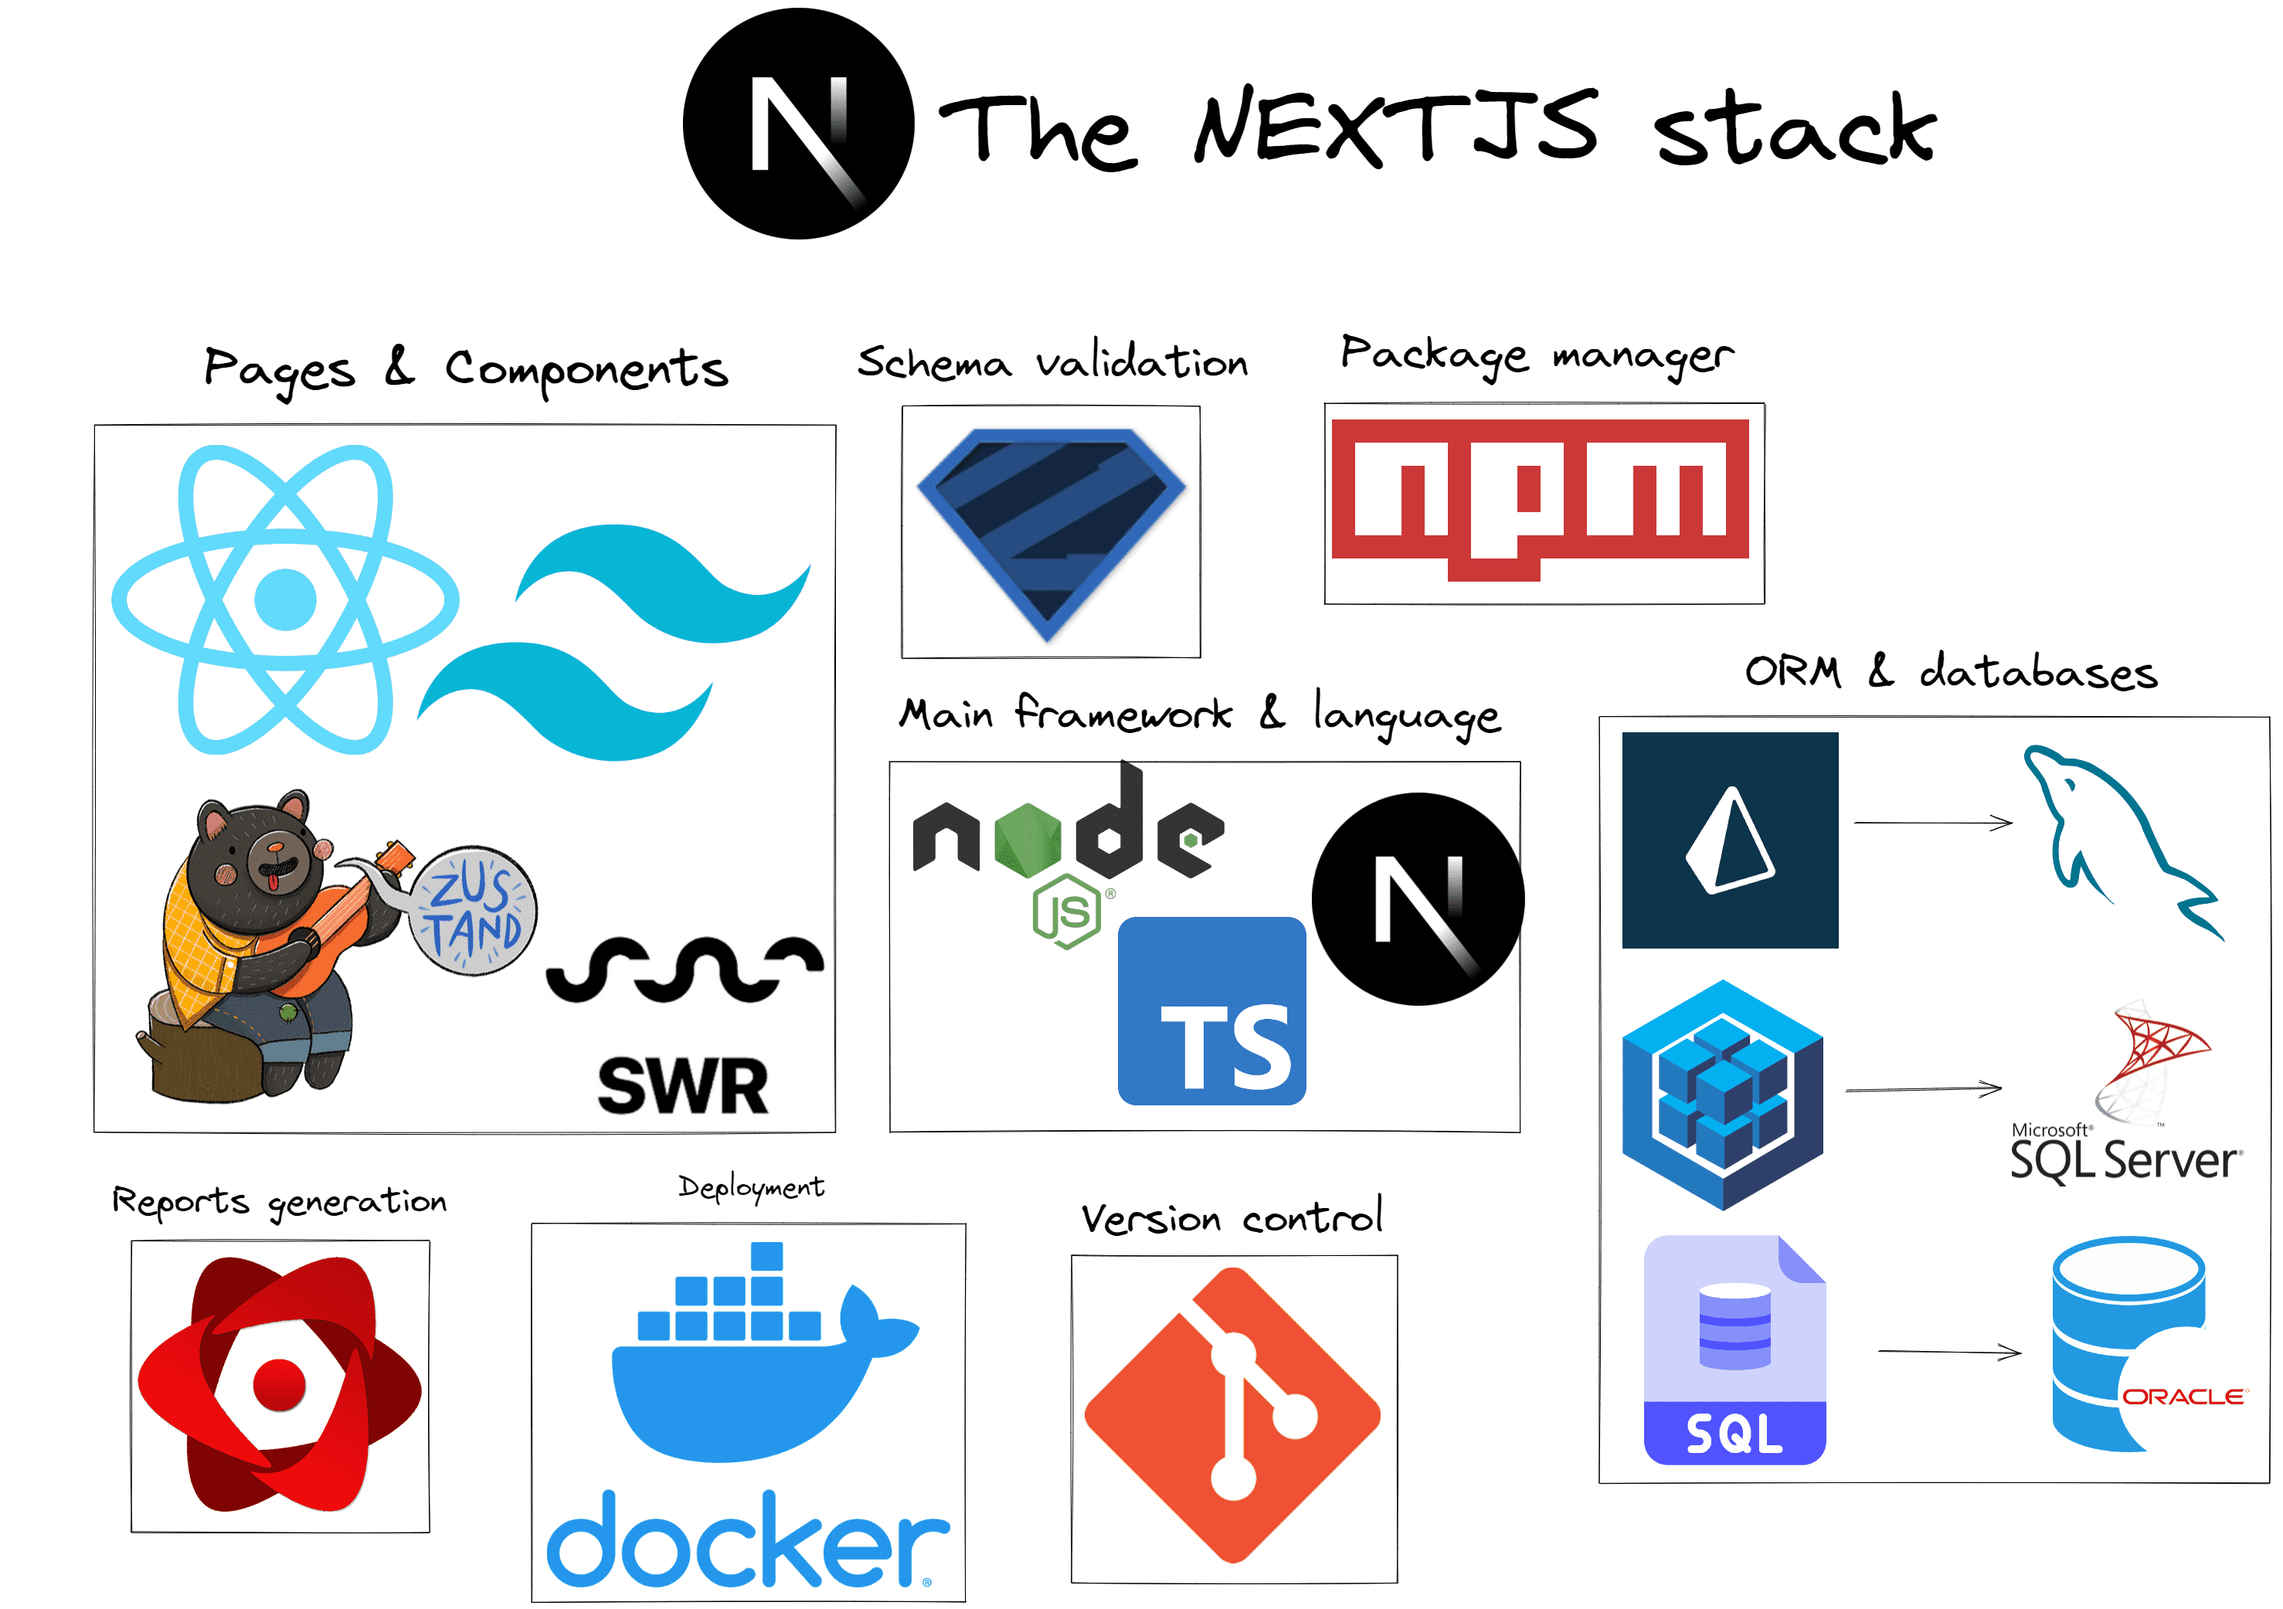
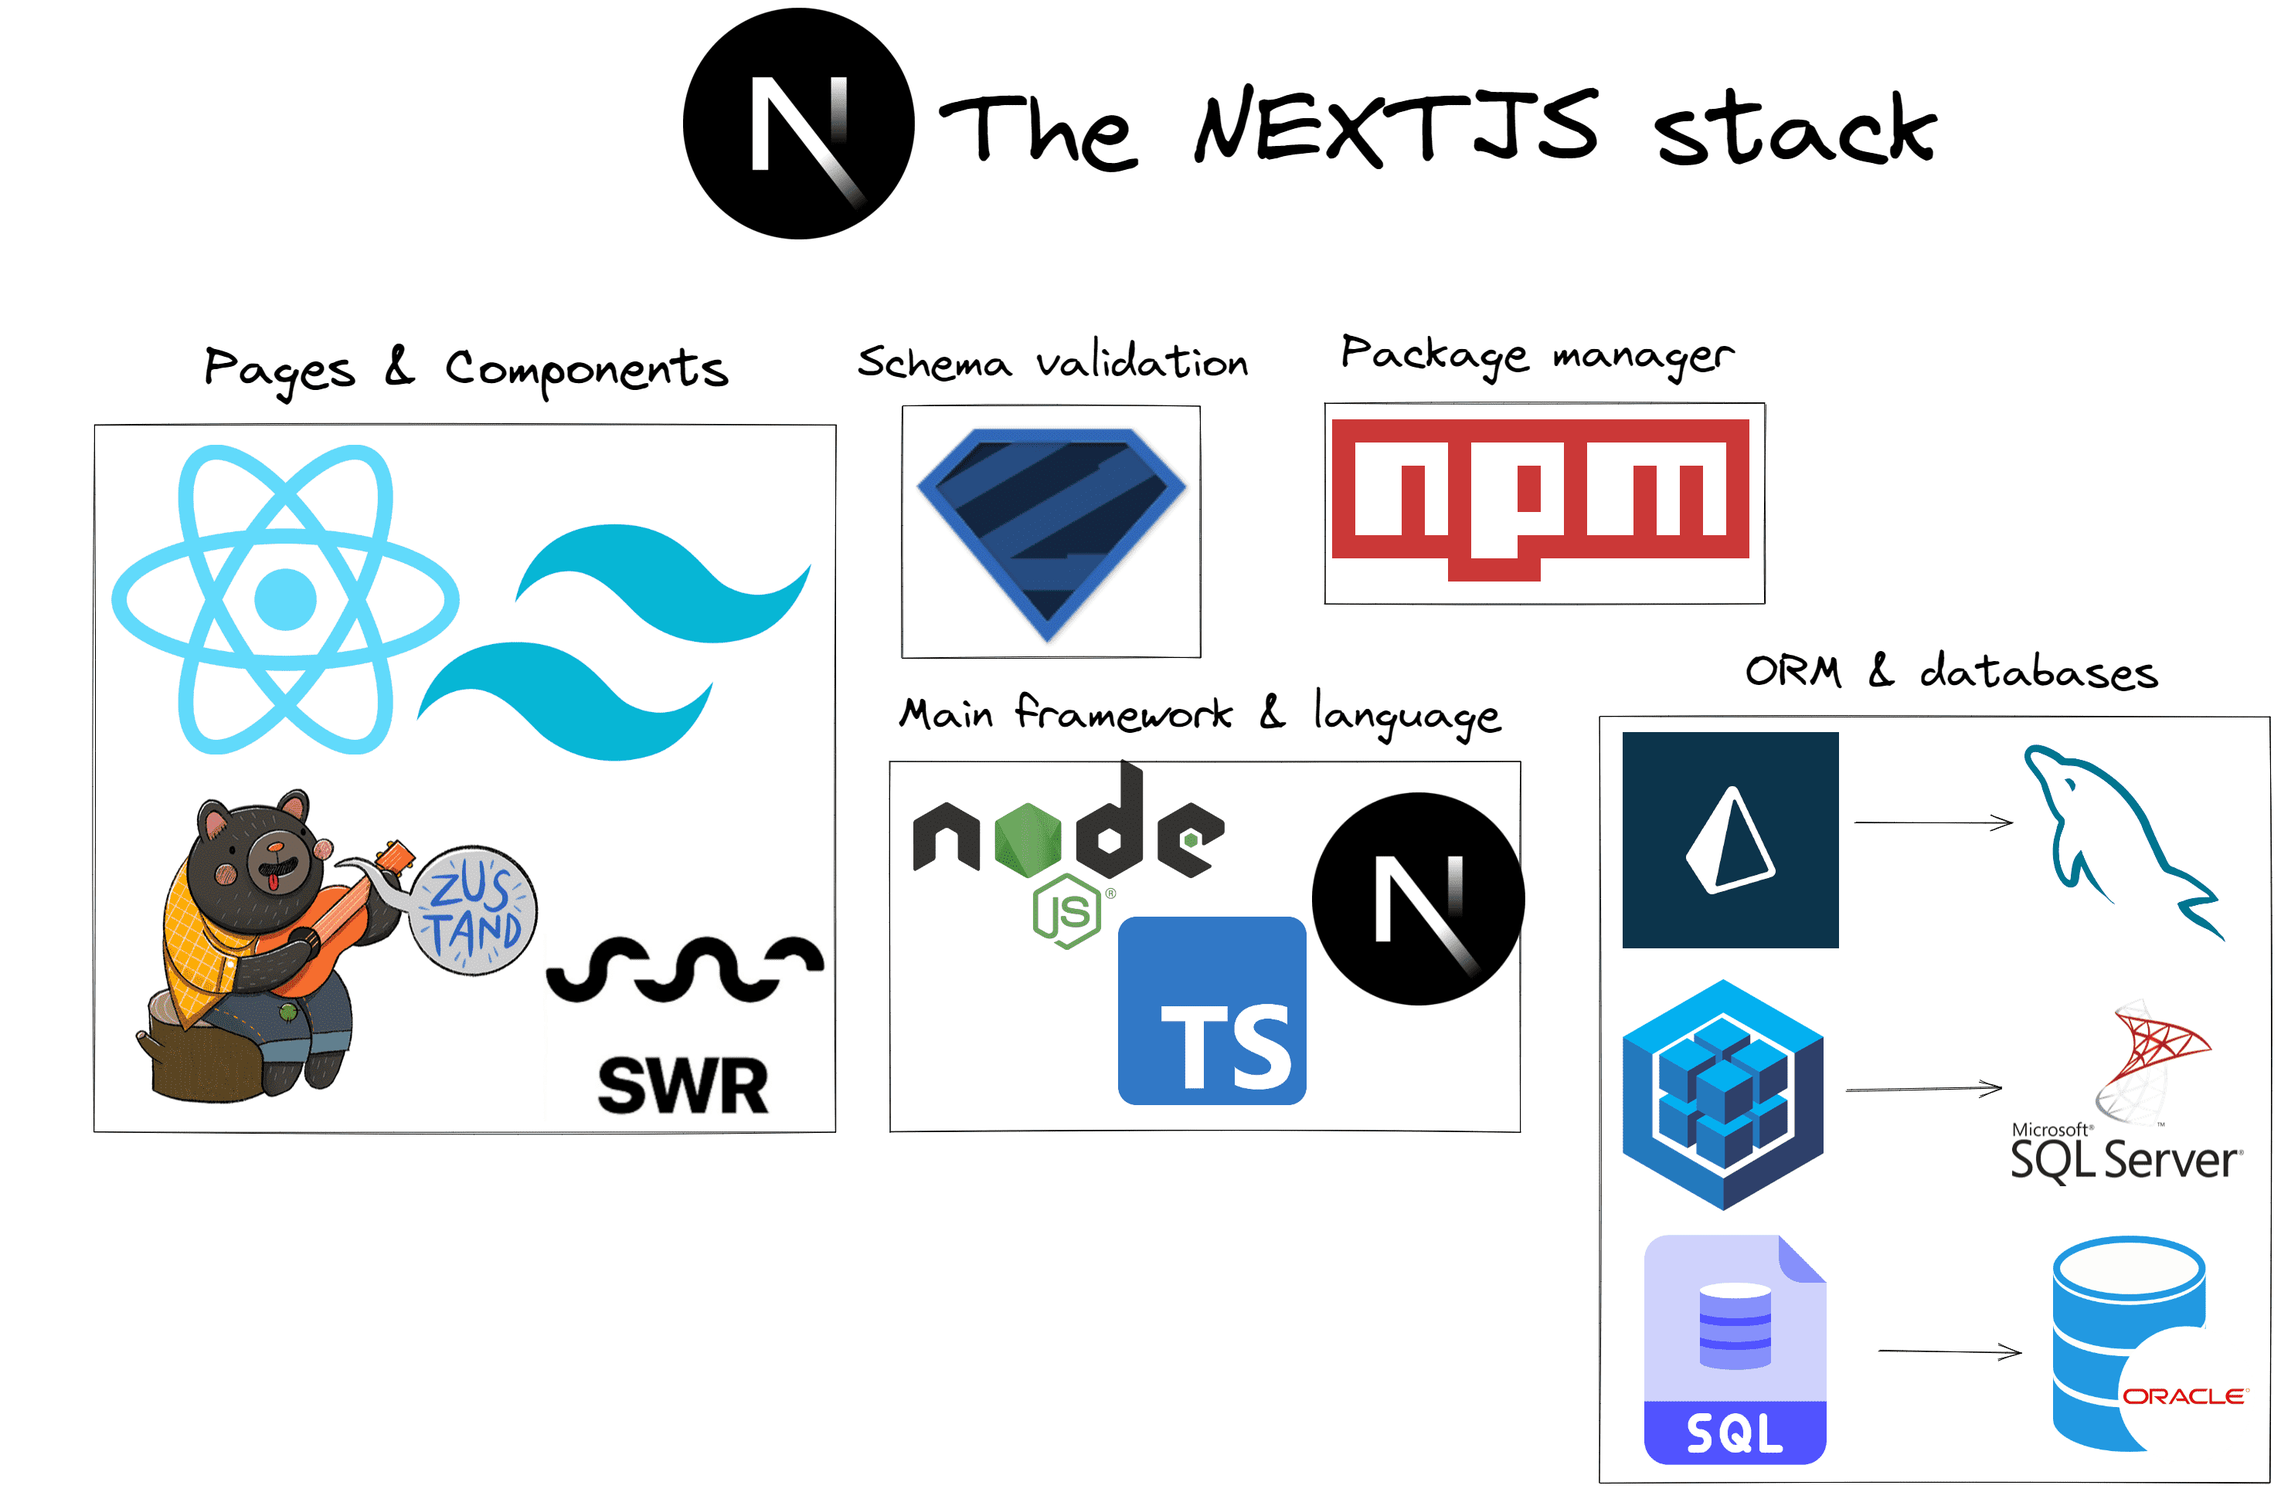
update 27 1 2023

diff --git a/content/es/blog/2022-10-30-first-blog.md b/content/es/blog/2022-10-30-first-blog.md
@@ -7,14 +7,10 @@ categories: ["Personal stuff"]
 thumbnail: /uploads/sunset.jpg
 ---
 
-Después de patearla por mucho tiempo, finalmente decidí empezar un blog. Mi objetivo prinicipal es **escribir contenido que pueda ayudar a otros desarrolladores web**
+_\(Potrero de los Funes, San Luis, Argentina\)_
 
-Para lograr este objetivo, tengo planeado las siguientes categorías \(cuyos nombres estarán en inglés porque así me es mas fácil administrar el tema de tener publicaciones en inglés y su traducción al español\)
+Después de patearla por mucho tiempo, finalmente decidí empezar un blog. Mi objetivo prinicipal es **documentar mi camino como desarrollador**. Para ello escribiré acerca de...
 
-- **&ldquo;The weekly update&ldquo;** \(La publicacion semanal\): Una vez por semana, probablemente los viernes por la noche, escribiré un nuevo post acerca de mi semana en el laburo. Inclusive en aquellas semanas donde no pasa mucho, seguramente puedo extraer algunos pensamientos acercas de tareas o charlas con mis compañeros de trabajo
+- **Cosas del laburo**: Inclusive si no pasa mucho, seguramente puedo extraer algunos pensamientos acercas de tareas o charlas con mis compañeros de trabajo
 
-- **&ldquo;I learned X, and here are my thoughts about it&ldquo;** \(Aprendí X, y estos son mis pensamientos al respecto\): Aquí documentaré mi proceso acerca de aprender una tecnología. Las cosas que me gustaron, las que no, si es complicado, y si le daré uso como desarrollador web, como hobby, o nunca. De paso, esto me motivará a aprender nuevas cosas para añadir contenido al blog
-
-- **&ldquo;Oddly specific tutorials&ldquo;** \(Tutoriales absurdamente específicos\): Creo que la mejor manera de explicarlo es con un ejemplo. Una vez se me asignó la tarea de hacer que una aplicacion Node realice consultas a una base de datos Oracle bastante vieja, y dockerizarlo. Junto con 3 compañeros, nos tomó un par de días debido a la rareza de la tarea, y fue un toque frustrante. Me hubiera gustado encontrar un tutorial al respecto, pero no había ninguno. Así que capaz sea el primero en hacer uno
-
-- **&ldquo;Personal stuff&ldquo;** \(Cosas personales\): Planeo que esto sea un blog de programación, pero capaz escriba de vez en cuando cosas personales. Tal como dice en la página principal, soy alguien a quien le gusta hacer otras cosas fuera de la programación
+- **Cosas personales**: Tal como dice en la página principal, soy alguien a quien le gusta hacer otras cosas fuera de la programación. Hay que aprovechar esta _esquina del internet_ para dejar una marca

diff --git a/content/en/blog/2022-10-30-first-blog.md b/content/en/blog/2022-10-30-first-blog.md
@@ -7,14 +7,10 @@ categories: ["Personal stuff"]
 thumbnail: /uploads/sunset.jpg
 ---
 
-After delaying for quite a time, finally decided to start a blog. My main objective is **writing stuff that may help fellow web developers**
+_\(Potrero de los Funes, San Luis, Argentina\)_
 
-To archieve that objective, I have the following blog categories in mind:
+After delaying for quite a time, finally decided to start a blog. My main objective is **to document my journey as a developer**. To archieve that objective, I'll write about....
 
-- **&ldquo;The weekly update&ldquo;**: Once a week, probably friday night, I'll write a new post about my week at work. Even on those weeks where not much is happenning, I'm sure I can extract some thoughts about tasks or chit-chat I had with my coworkers
+**Work stuff:** Even if not much happens, I can surely extract some thoughts about tasks or chats with my coworkers
 
-- **&ldquo;I learned X, and here are my thoughts about it&ldquo;**: Here I’ll document my process about learning a given technology. The things I liked, hated, and confused me about the technology in particular, and if I’ll use it as a web developer, as a hobby, or never. This will also motivate me to learn things so I can add content to the blog
-
-- **&ldquo;Oddly specific tutorials&ldquo;**: I think an example will explain it better. I was once assigned the task of making a Node application query a very old Oracle database, and dockerize it. Me along 3 coworkers spent a couple of days because of the rarity of the task, and was kinda frustrating. I would've loved to find a tutorial on the matter, but there was none. So, maybe I'll be the first to make one
-
-- **&ldquo;Personal stuff&ldquo;**: I plan this to be a developer blog, but maybe I'll write from time to time personal stuff. As stated in the main page, I'm someone who loves others things outside programming
+**Personal stuff:** Just like it says on the front page, I'm someone who likes to do other things outside of programming. You have to take advantage of this _corner of the internet_ to leave a mark

diff --git a/content/es/page/about.md b/content/es/page/about.md
@@ -40,9 +40,6 @@ Buenas, soy Franco Becvort \(Pollito\), un desarrollador web de San Luis, Argent
 - **Páginas y componentes:** React, Tailwind, Zustand, SWR
 - **Validación de esquemas:** Zod
 - **Administrador de paquetes:** NPM
-- **Deployment:** Docker
-- **Reportes:** React pdf v3
-- **Control de versión:** Git
 - **ORM & base de datos:**
   - Prisma con MySQL 8
   - Sequelize con Microsoft SQL Server 2016
@@ -58,7 +55,6 @@ Buenas, soy Franco Becvort \(Pollito\), un desarrollador web de San Luis, Argent
 - **Dominios, Controladores & Servicios:** Groovy
 - **Lenguaje de consulta & base de datos:** Hibernate, Microsoft SQL Server 2016
 - **Control de versión:** Subversion
-- **Deployment:** Gradle, Apache Tomcat 8, Jenkins
 - **Reportes:** iReport 5.6.0, archivos JRXML
 
 ## ¿Sos un desarrollador frontend? ¿Un desarrollador backend? ¿Qué es lo que haces?
@@ -75,9 +71,7 @@ Pero no todos los desarrolladores web son lo mismo, así que en esto es en lo qu
 
 ![What I Do ES](/about/whatIDoES.png)
 
-### <span class="emojify">✅</span> Cosas que hago
-
-Estas son algunas cosas que hago y en las que soy bueno
+### Cosas que hago
 
 - Cosas de desarrollador backend como...
 

diff --git a/content/en/page/about.md b/content/en/page/about.md
@@ -40,9 +40,6 @@ Hello, I'm Franco Becvort \(Pollito\), a Web Developer from San Luis, Argentina
 - **Pages & Components:** React, Tailwind, Zustand, SWR
 - **Schema validation:** Zod
 - **Package manager:** NPM
-- **Deployment:** Docker
-- **Report generation:** React pdf v3
-- **Version control:** Git
 - **ORM & databases:**
   - Prisma with MySQL 8
   - Sequelize with Microsoft SQL Server 2016
@@ -58,7 +55,6 @@ Hello, I'm Franco Becvort \(Pollito\), a Web Developer from San Luis, Argentina
 - **Domains, Controllers & Services:** Groovy
 - **Query language & database:** Hibernate, Microsoft SQL Server 2016
 - **Version control:** Subversion
-- **Deployment:** Gradle, Apache Tomcat 8, Jenkins
 - **Report generation:** iReport 5.6.0, JRXML files
 
 ## Are you a frontend dev? a backend dev? fullstack dev? What do you do?
@@ -75,9 +71,7 @@ But not all web developers are the same, so here it is what I am good at
 
 ![What I Do](/about/whatIDo.png)
 
-### <span class="emojify">✅</span> Stuff I do
-
-These are the things I do and I'm good at
+### Stuff I do
 
 - Backend dev stuff such as...
 
